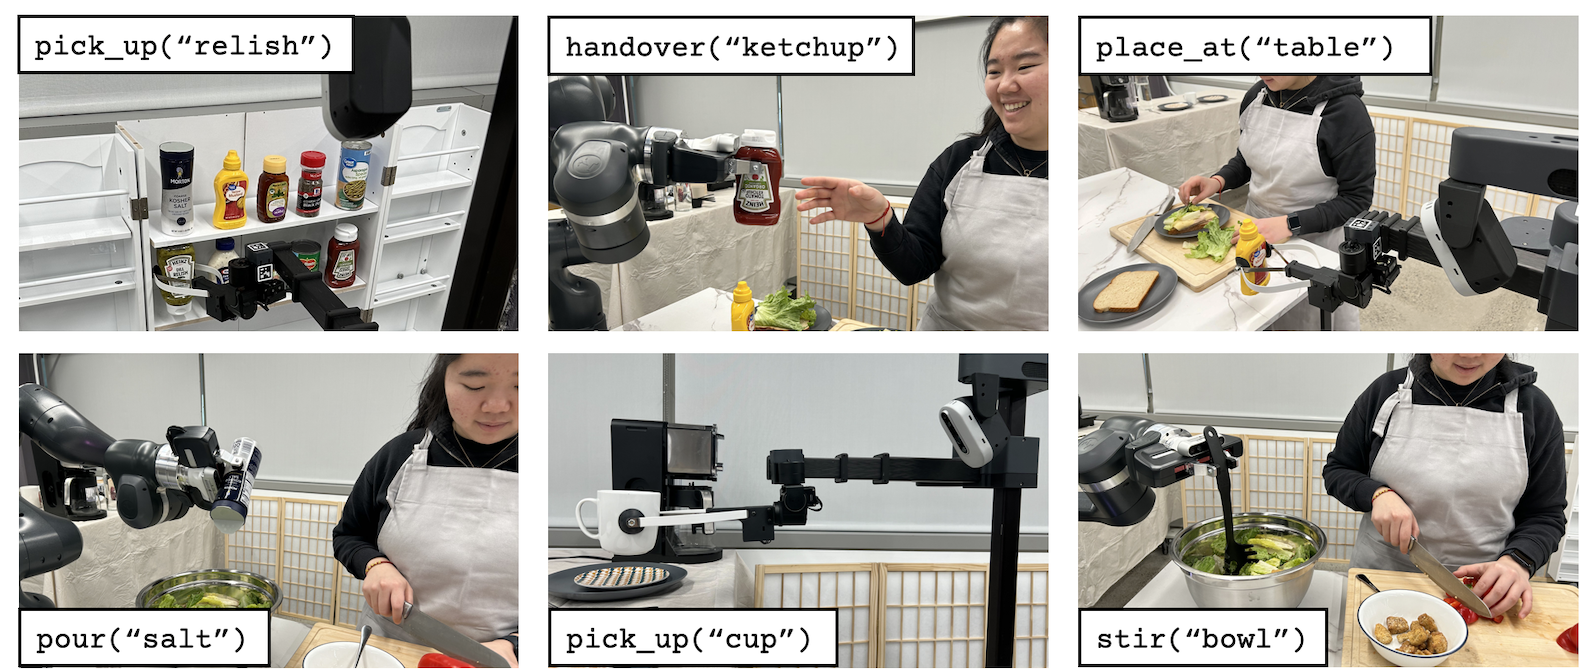
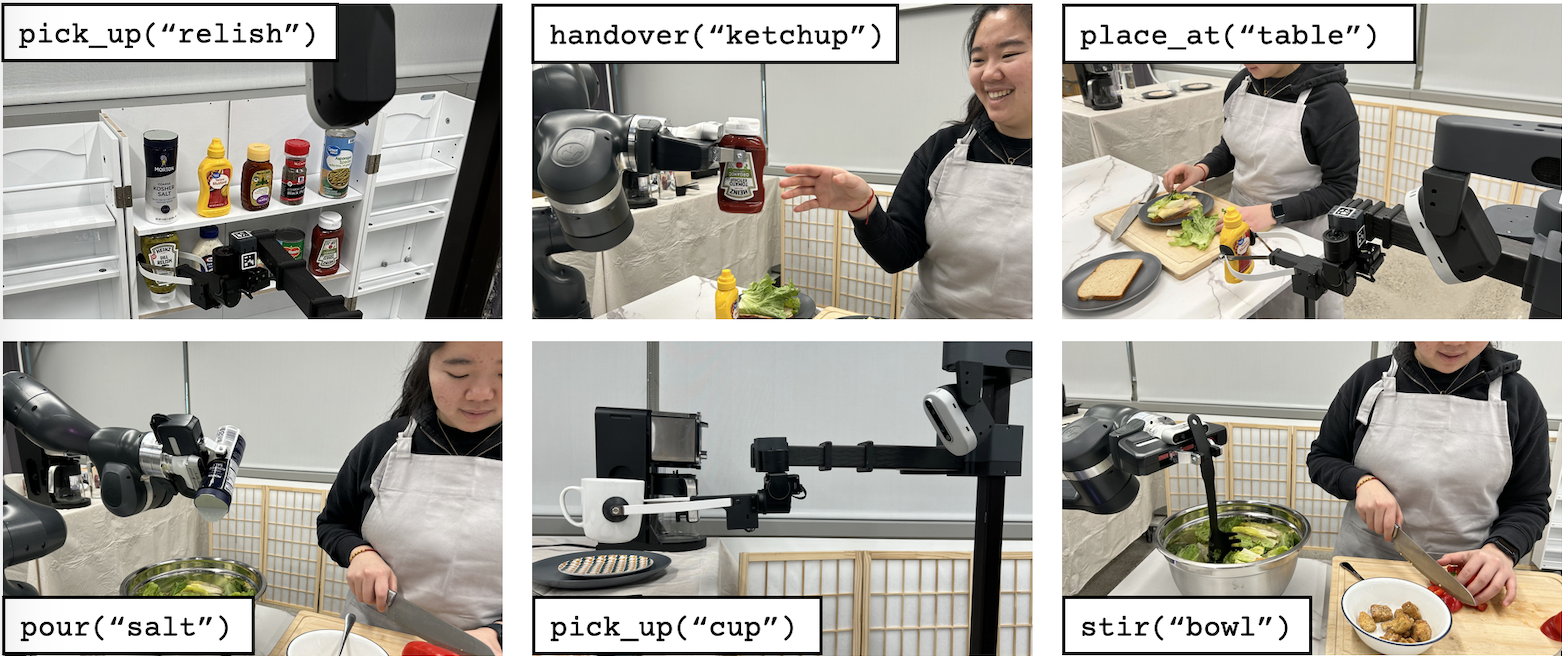
Fix assymetry

diff --git a/index.html b/index.html
@@ -263,14 +263,17 @@
     <div class="columns is-centered has-text-centered">
       <div class="column is-four-fifths">
         <h2 class="title is-3">Interactive Robot Skills</h2>
-        <div class="publication-video">
+        <!-- <div class="publication-video"> -->
+          
+          
+          <img src="./static/images/skills.png">
+          <br>
+          <br>
           <p align="left">
             We evaluate MOSAIC on multiple recipes, involving a range of robot skills that interact with the human user and everyday objects.
           </p>
-          <br>
-          <img src="./static/images/skills.png">
             
-        </div>
+        <!-- </div> -->
       </div>
     </div>
     <br>
@@ -322,6 +325,7 @@
           
           <img src="./static/images/tp_approach_pic.png">
           <br>
+          <br>
           <p align="left">
             We compare an interactive approach against using one LLM prompt, 
             which tends to violate constraints. Given the observation, the 
@@ -341,12 +345,13 @@
     <div class="columns is-centered has-text-centered">
       <div class="column is-four-fifths">
         <h2 class="title is-3">Visuomotor Skills</h2>
-        <div class="publication-video">
+        <!-- <div class="publication-video"> -->
           <!-- align left -->
           
           
           
           <img src="./static/images/vs_approach_pic.png">
+          <br>
           <br>
           <p align="left">
             <b>Architecture Overview for Visuomotor Skills.</b> 
@@ -362,7 +367,7 @@
               the final action.
           </p>
             
-        </div>
+        <!-- </div> -->
       </div>
     </div>
 
@@ -376,8 +381,9 @@
           
           <img src="./static/images/hmf.png">
           <br>
+          <br>
           <p align="left">
-            <b>Real-time, Vision-based  Forecasting and Planning.</b> 
+            <b>Real-time Forecasting and Planning.</b> 
             Given an RGB-D scene image, a pose detector extracts the human's 2D pose, which is converted to 3D coordinates using the camera's depth map. The motion forecaster predicts future human motion, which is used by the robot to plan actions.
           </p>
             
